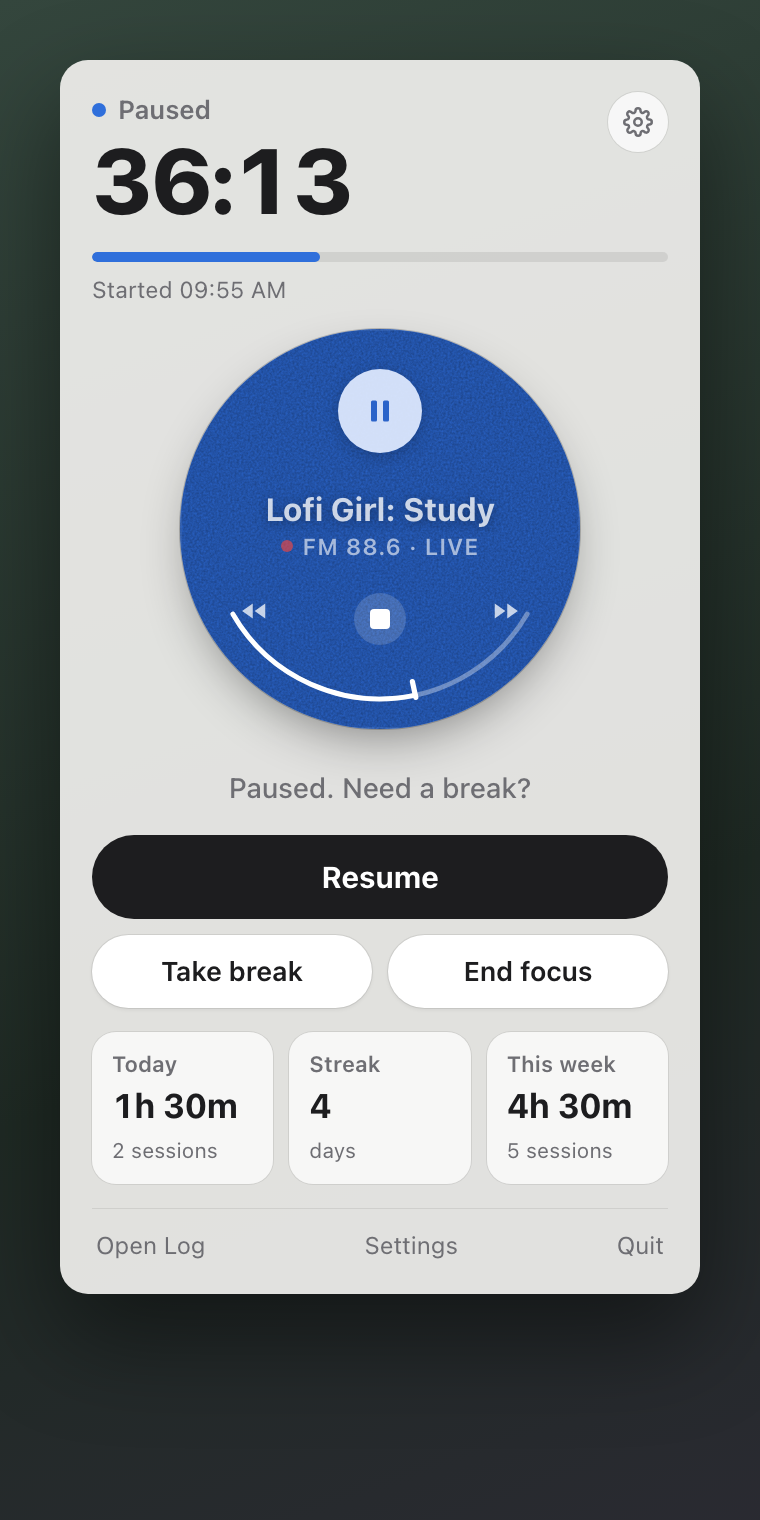
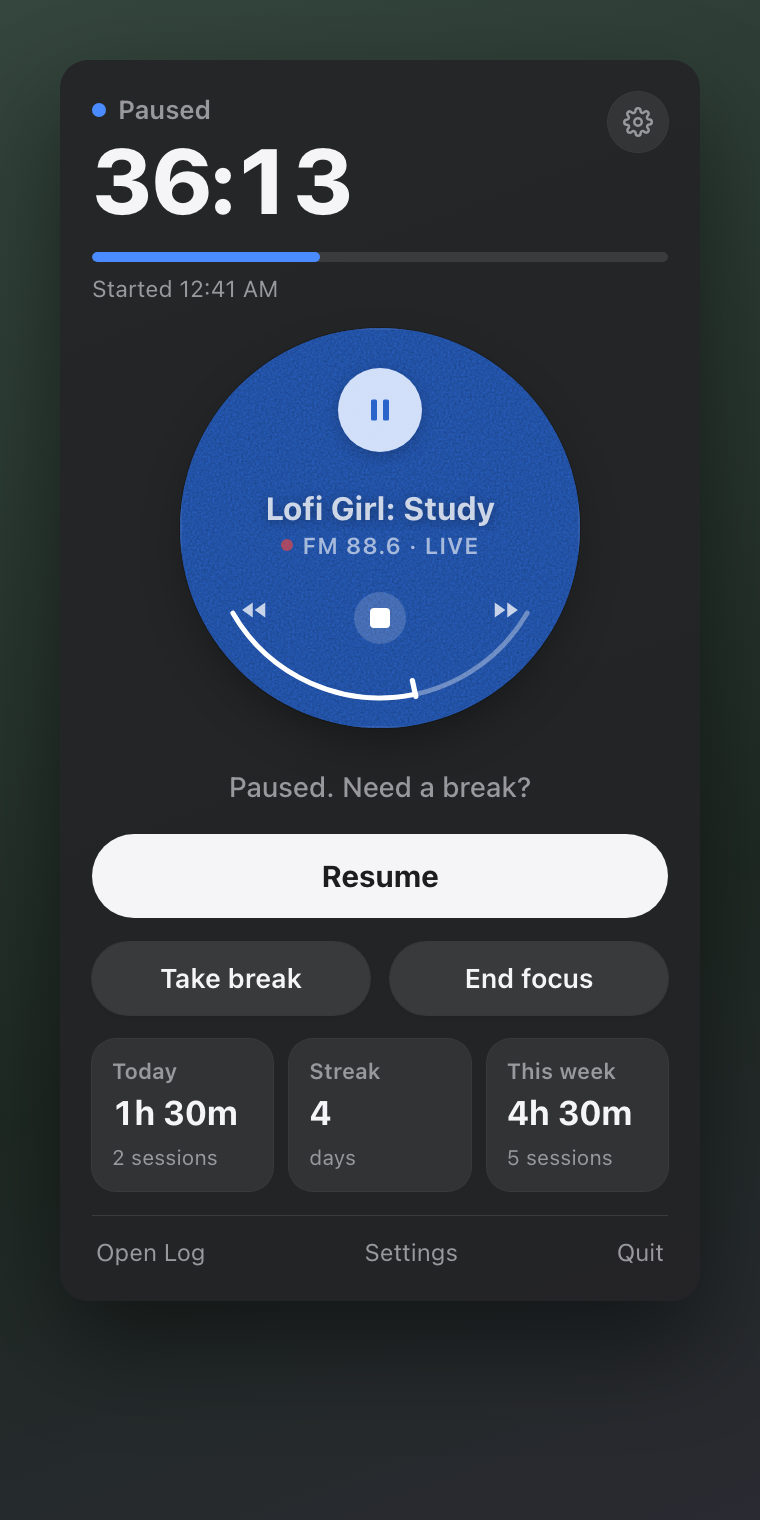
Steady panel layout and clearer buttons
- The line under the progress bar keeps its height when empty, so the
  player and buttons no longer jump between states or modes. Breaks
  show no text there (the clock already shows the time left).
- More space between the button rows; a lone secondary button (Take
  break, Skip break) is narrower than the main one. Version 2.8.

diff --git a/src/panel.html b/src/panel.html
@@ -36,7 +36,8 @@ body.preview .panel{background:rgba(246,245,243,.9);border-radius:14px;box-shado
 .prog{height:5px;border-radius:9px;background:var(--line);overflow:hidden}
 .prog i{display:block;height:100%;width:0;border-radius:9px;background:var(--accent);transition:width .25s linear}
 .break .prog i,.breakPaused .prog i{background:var(--break)}
-.progmeta{display:flex;justify-content:space-between;font-size:11.5px;color:var(--muted);margin-top:6px}
+/* Always one line tall, even when empty, so nothing below moves when the text comes and goes. */
+.progmeta{display:flex;justify-content:space-between;font-size:11.5px;line-height:15px;height:15px;color:var(--muted);margin-top:6px;white-space:nowrap}
 
 /* the round radio: the live video, blurred and frosted, with the controls on top */
 .disc{position:relative;width:200px;height:200px;margin:0 auto;border-radius:50%;overflow:hidden;color:#fff;
@@ -81,10 +82,12 @@ body.preview .panel{background:rgba(246,245,243,.9);border-radius:14px;box-shado
 
 /* status, buttons, stats */
 .msg{font-size:14px;color:var(--muted);text-align:center;margin:8px 4px 2px;min-height:19px;font-weight:500}
-.actions{display:flex;flex-direction:column;gap:8px}
+.actions{display:flex;flex-direction:column;gap:12px}
 .primary{background:var(--btn);color:var(--btnInk);border-radius:99px;padding:11px 0;text-align:center;font-weight:700;font-size:15px;width:100%}
 .secondary{background:var(--btn2);border-radius:99px;padding:9px 0;font-weight:600;font-size:13.5px;text-align:center;width:100%;box-shadow:0 0 0 .5px var(--line),0 1px 2px rgba(0,0,0,.06)}
-.row{display:grid;grid-auto-flow:column;grid-auto-columns:1fr;gap:8px}
+.row{display:grid;grid-auto-flow:column;grid-auto-columns:1fr;gap:10px}
+/* One secondary button sits under the main one, narrower, so the main action stands out. */
+.actions .row.one{width:64%;margin:0 auto}
 .primary:active,.secondary:active{transform:scale(.985)}
 .stats{display:grid;grid-template-columns:repeat(3,1fr);gap:8px}
 .stat{background:var(--card);border-radius:12px;padding:9px 10px;box-shadow:0 0 0 .5px var(--line)}
@@ -393,7 +396,7 @@ function render() {
     : st === 'running' ? (pomo ? (S.chained ? `Keep going · ${S.blockMin} min` : `Pomodoro · ${S.blockMin} min`) : 'Count up')
     : st === 'paused' ? 'Paused' : st === 'break' ? 'Break' : 'Break paused';
   if (st === 'idle') { $('#progA').textContent = ''; $('#progB').textContent = pomo ? `${S.pomoMin} min · ${BREAK_FOR[S.pomoMin]} min break` : ''; }
-  else if (st === 'break' || st === 'breakPaused') { $('#progA').textContent = 'Break'; $('#progB').textContent = `${Math.round(S.breakTotal / MIN)} min`; }
+  else if (st === 'break' || st === 'breakPaused') { $('#progA').textContent = ''; $('#progB').textContent = ''; }
   else { $('#progA').textContent = `Started ${fmtTime(S.startedAt)}`; $('#progB').textContent = pomo && st === 'running' ? `Ends ${fmtTime(Date.now() + S.blockMin * MIN - elapsed())}` : (S.carry ? `${dur(S.carry)} before this block` : ''); }
   // Buttons for each state: [label, action, primary?]
   const B = {
@@ -405,7 +408,7 @@ function render() {
   }[st];
   const [first, ...rest] = B;
   $('#actions').innerHTML = `<button type="button" class="primary" data-i="0">${first[0]}</button>` +
-    (rest.length ? `<div class="row">${rest.map((b, i) => `<button type="button" class="secondary" data-i="${i + 1}">${b[0]}</button>`).join('')}</div>` : '');
+    (rest.length ? `<div class="row${rest.length === 1 ? ' one' : ''}">${rest.map((b, i) => `<button type="button" class="secondary" data-i="${i + 1}">${b[0]}</button>`).join('')}</div>` : '');
   $('#actions').onclick = e => { const b = e.target.closest('button'); if (b) B[+b.dataset.i][1](); };
   native({type: 'status', status: st});
   renderMsg(); renderClock(); renderStats();
